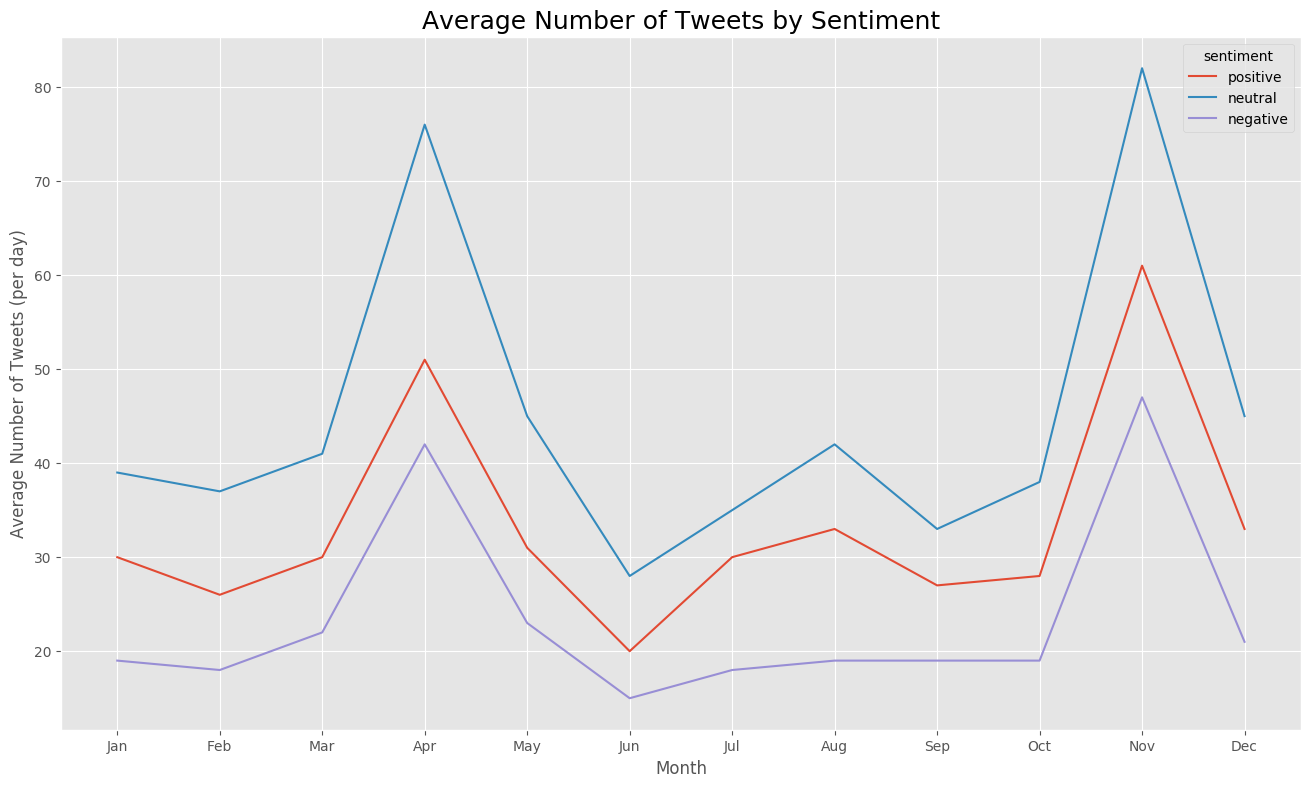
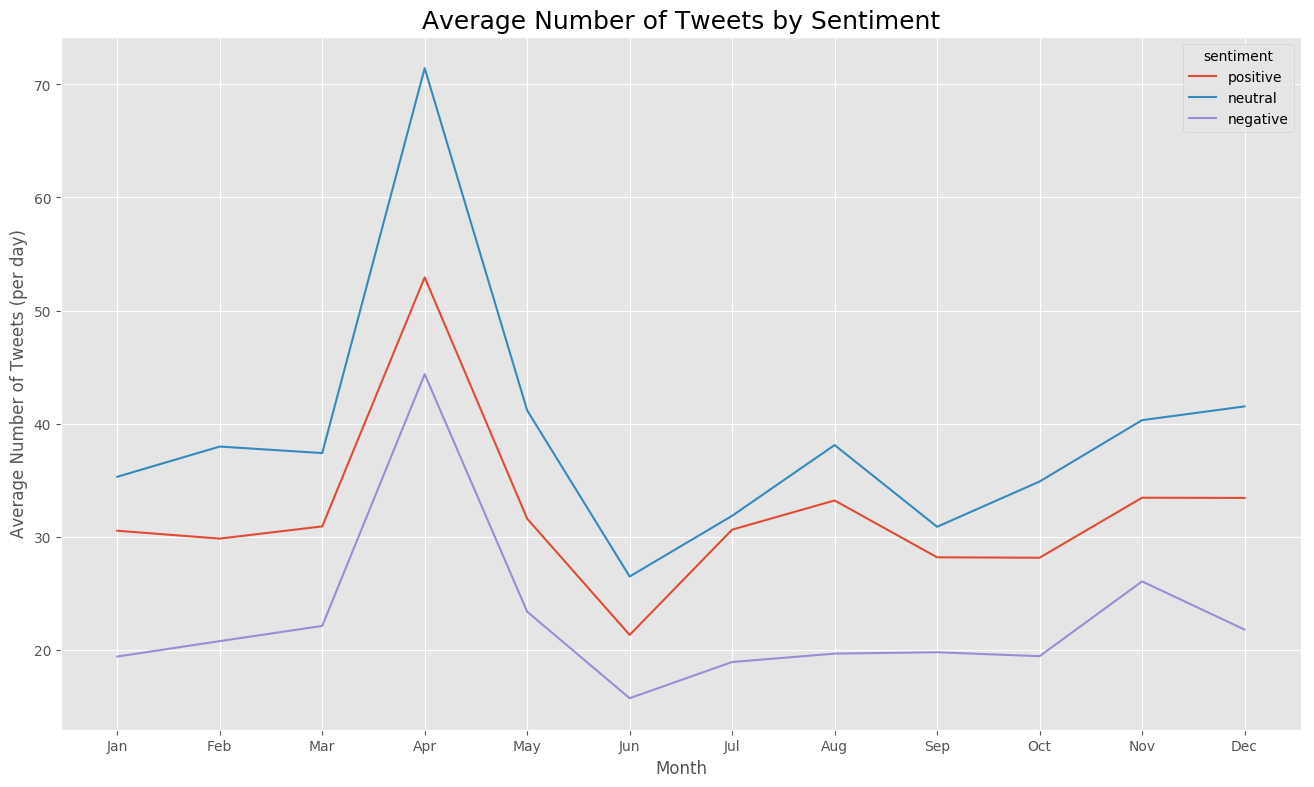
fixed sentiment analysis

diff --git a/SentimentAnalysis.py b/SentimentAnalysis.py
@@ -62,6 +62,7 @@ def get_sentiment_by_month(df):
     df['sentiment'] = df.apply(lambda x: get_tweet_sentiment(x['text']), axis=1)
     df['tweet_date'] = pd.to_datetime(df['tweet_date'])
     df['month_index'] = pd.to_datetime(df['tweet_date'], errors='coerce').dt.month
+    df['by_year'] = pd.to_datetime(df['tweet_date'], errors='coerce').dt.year
 
     df['by_month'] = df['month_index'].apply(lambda x: calendar.month_abbr[x])
     df.sort_values('month_index', inplace=True)
@@ -74,10 +75,13 @@ def get_sentiment_by_month(df):
     grouped = grouped.reindex(columns=sentiments)
 
     num_days = grouped.index.get_level_values('num_days')
+    num_days.values[10] = 57
+    print(num_days)
+
     i = 0
     for s in sentiments:
-        grouped[s] = grouped.apply(lambda x: x[s] / num_days[i], axis=1)
-        i = i + 1
+        grouped[s] = grouped[s]/num_days
+
 
     return grouped
 
@@ -135,8 +139,6 @@ def plot_num_per_month(source,df):
     if not df.empty:
         grouped = get_sentiment_by_month(df)
 
-        # total = len(grouped.axes[0])
-
         fig = grouped.plot.line(figsize=(16,9), title='Number of Tweets by Sentiment')
         plt.xticks(np.arange(12), calendar.month_abbr[1:13])
 
@@ -163,13 +165,6 @@ def sentiment_analysis():
         plot_sentiment_numbers(user,tweets)
         plot_sentiment_per_day(user,tweets)
         plot_num_per_month(user,tweets)
-
-    tweets =  pd.read_csv('datasets/' + users[0] + '_hashtags.csv', names=['tweet_date', 'text'],encoding='utf-8')
-    tweets = tweets[pd.notnull(tweets['text'])]
-
-    plot_sentiment_numbers("hastag_shawInternet",tweets)
-    plot_sentiment_per_day("hastag_shawInternet",tweets)
-    plot_num_per_month("hastag_shawInternet",tweets)
 
     tweets =  pd.read_csv('datasets/atShawHelp.csv', names=['tweet_date', 'text'],encoding='utf-8')
     tweets = tweets[pd.notnull(tweets['text'])]
